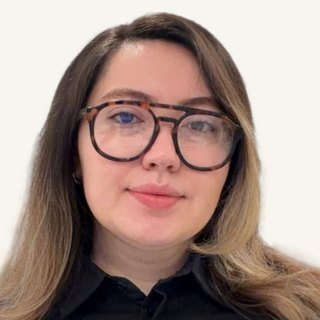
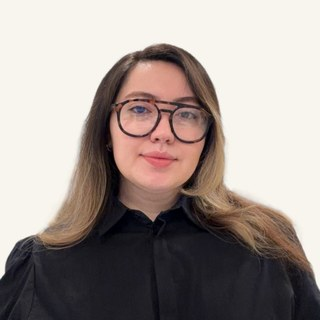
Portrait: full photo as a plain square, no ring
Claude-Session: https://claude.ai/code/session_016nzzjLeF2Emyrjf7btBcB9

diff --git a/assets/orbit/orbit.css b/assets/orbit/orbit.css
@@ -504,11 +504,11 @@ footer a{font-weight:600}
 .live .viz{height:auto;aspect-ratio:16/9}
 #lakevid{position:absolute;inset:0;width:100%;height:100%;object-fit:cover;display:block;background:#05080f}
 .lcard .btns{display:flex;flex-wrap:wrap;gap:12px;margin-left:26px}.lcard .btns .pill{margin-left:0}
-/* portrait beside the name */
-.av{display:block;flex:none;border-radius:50%;object-fit:cover;box-shadow:0 0 0 2px var(--bg),0 0 0 3.5px rgba(79,209,197,.75)}
-.hero-name{display:flex;align-items:center;gap:16px}.hero-name .av{width:52px;height:52px}
+/* square portrait beside the name, no frame */
+.av{display:block;flex:none;object-fit:cover}
+.hero-name{display:flex;align-items:center;gap:16px}.hero-name .av{width:60px;height:60px}
 .hero-name{top:66px}
-.nav .name{display:flex;align-items:center;gap:12px}.nav .name .av{width:34px;height:34px}
+.nav .name{display:flex;align-items:center;gap:12px}.nav .name .av{width:38px;height:38px}
 @media (max-width:600px){.hero-name .av{width:42px;height:42px}.hero-name{gap:12px;top:52px}.nav .name .av{width:30px;height:30px}}
 /* ---------- responsive ---------- */
 @media (max-width:1280px){.nav ul{gap:20px}.about-grid{gap:40px}.vrow{grid-template-columns:34px 200px 1fr}.skills-grid{grid-template-columns:1fr 400px}.pub-grid{grid-template-columns:1fr 440px}}
